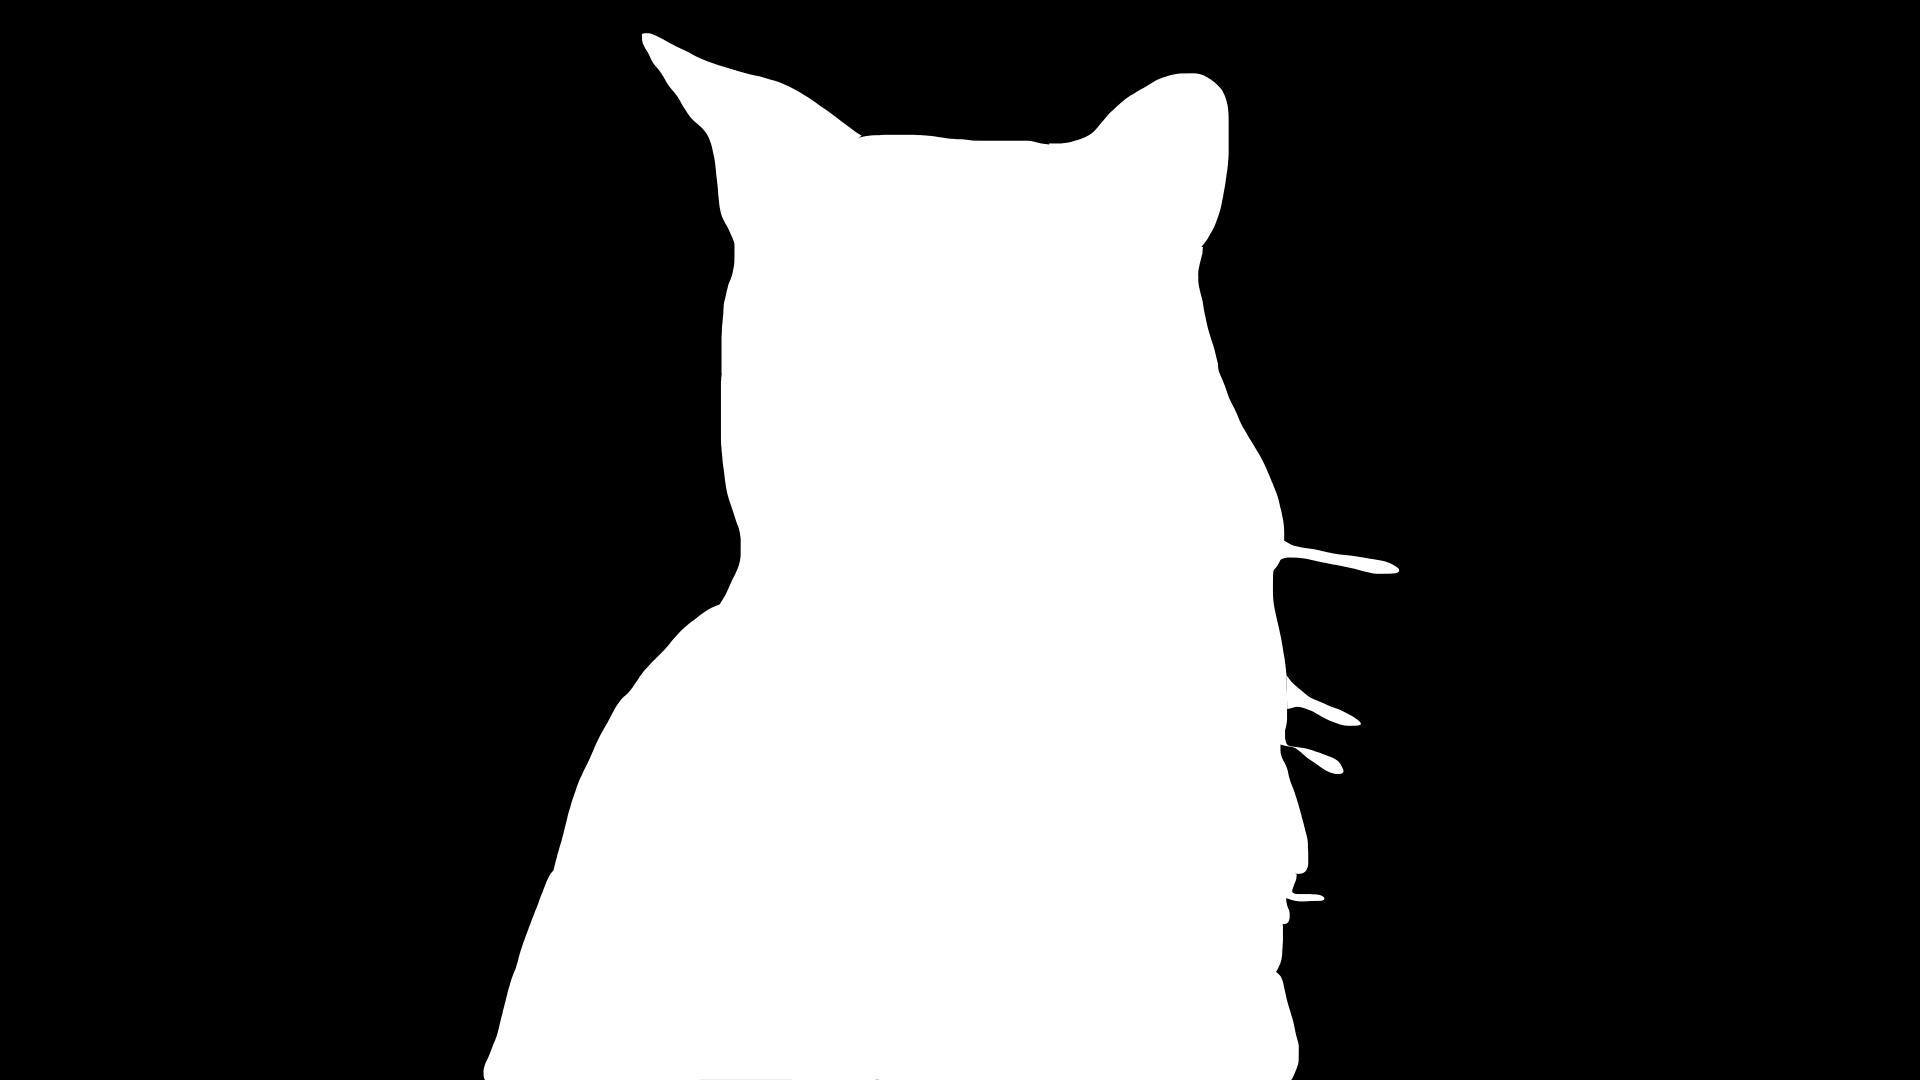
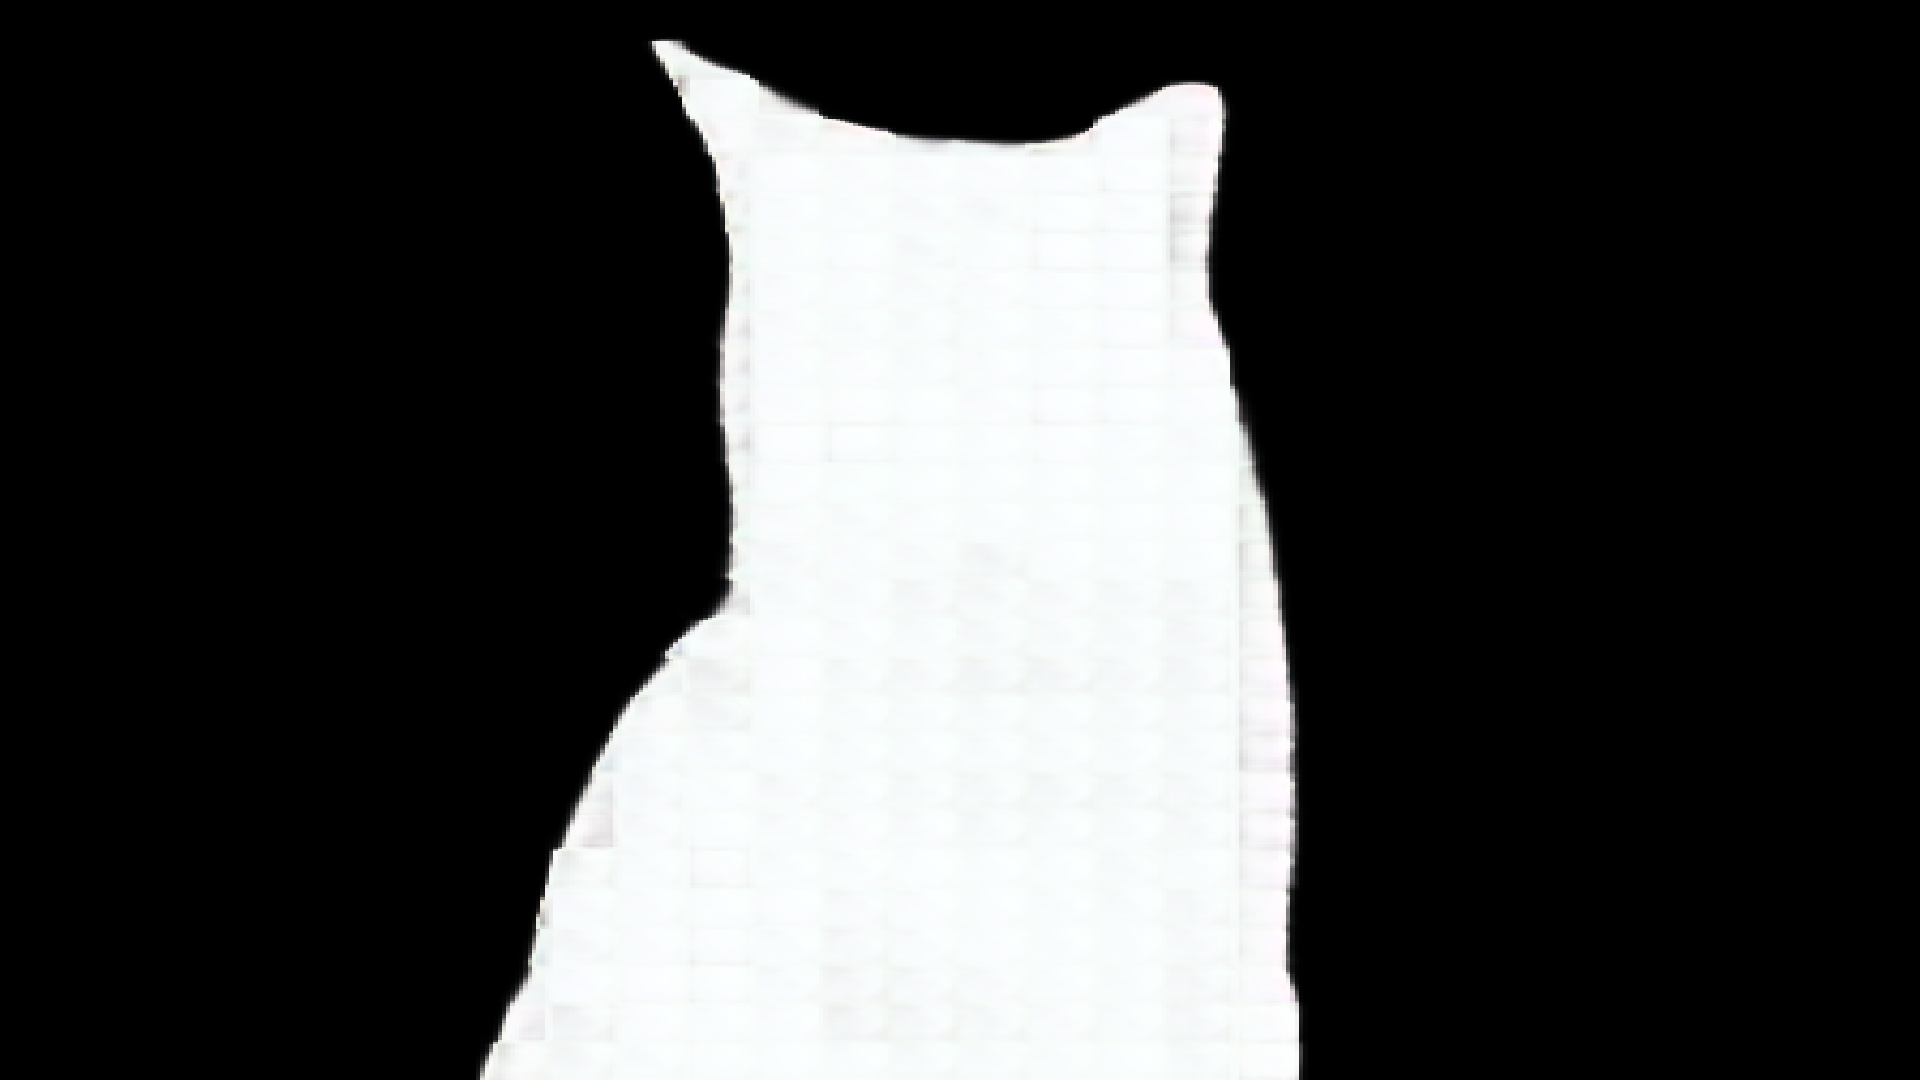
Layers and HSB colour experiments

diff --git a/sketch.js b/sketch.js
@@ -1,3 +1,129 @@
+let sourceImg=null;
+let maskImg=null;
+let renderCounter=0;
+let curLayer = 0;
+
+// change these three lines as appropiate
+let sourceFile = "input_5.jpg";
+let maskFile   = "mask_5.png";
+let outputFile = "output_2.png";
+
+function preload() {
+  sourceImg = loadImage(sourceFile);
+  maskImg = loadImage(maskFile);
+}
+
+function setup () {
+  let main_canvas = createCanvas(1920, 1080);
+  main_canvas.parent('canvasContainer');
+
+  imageMode(CENTER);
+  noStroke();
+  background(0, 0, 128);
+  sourceImg.loadPixels();
+  maskImg.loadPixels();
+  colorMode(HSB);
+}
+
+function draw () {
+  if (curLayer == 0) { //background
+    let num_lines_to_draw = 40;
+    // get one scanline
+    for(let j=renderCounter; j<renderCounter+num_lines_to_draw && j<1080; j++) {
+      for(let i=0; i<1920; i++) {
+        colorMode(RGB);
+        let pix = sourceImg.get(i, j);
+        // create a color from the values (always RGB)
+        let col = color(pix);
+        let mask = maskImg.get(i, j);
+
+        colorMode(HSB, 360, 100, 100);
+        // draw a "dimmed" version in gray
+        let h = hue(col);
+        let s = saturation(col);
+        let b = brightness(col);
+
+        let new_brt = map(b, 0, 100, 30, 50);
+        //let new_sat = map(s,0,100,20,80);
+        let new_col = color(h, 0, new_brt);
+        set(i, j, new_col);
+      }
+    }
+    renderCounter = renderCounter + num_lines_to_draw;
+    updatePixels();
+  }
+  else if (curLayer == 1) { //Halo around cat
+    for(let i=0; i<500; i++) {
+      let x1 = random(0, width);
+      let y1 = random(0, height);
+      let mask = maskImg.get(x1, y1);
+      if(mask[1] > 128) {
+        let x2 = x1 + random(-20, 20);
+        let y2 = y1 + random(-20, 20);
+        //colorMode(RGB);
+        //fill(255,255,0);
+        
+
+        colorMode(HSB,255);
+        const c = color('hsb(62, 150%, 100%)');
+        fill(c);
+        ellipse(x1, y1, 80);
+        
+        
+    
+      }
+    }
+    renderCounter = renderCounter + 1;
+  }
+  else { //elements on top of cat and on top of background
+    
+    for(let i=0; i<100; i++) {
+      let x1 = random(0, width);
+      let y1 = random(0, height);
+      let x2 = x1 + random(-10, 10);
+      let y2 = y1 + random(-10, 10);
+      colorMode(RGB);
+      let pix = sourceImg.get(x1, y1);
+      let mask = maskImg.get(x1, y1);
+      let col = color(pix);
+     
+      stroke(col);
+      fill(col);
+      if(mask[1] < 128) {
+        
+      }
+      else {
+        ellipse(x1, y1, 20);
+      }
+    }
+    renderCounter = renderCounter + 1;
+    // set(i, j, new_col);
+  }
+  // print(renderCounter);
+  if(curLayer == 0 && renderCounter > 1080) {
+    curLayer = 1;
+    renderCounter = 0;
+    print("Switching to curLayer 1");
+  }
+  if(curLayer == 1 && renderCounter > 500) {
+    curLayer = 2;
+    renderCounter = 0;
+    print("Switching to curLayer 2");
+  }
+  else if(curLayer == 2 && renderCounter > 1500) {
+    console.log("Done!")
+    noLoop();
+    // uncomment this to save the result
+    // saveArtworkImage(outputFile);
+  }
+}
+
+function keyTyped() {
+  if (key == '!') {
+    saveBlocksImages();
+  }
+}
+
 // let sourceImg=null;
 // let maskImg=null;
 // let renderCounter=0;
@@ -5,7 +131,7 @@
 // // change these three lines as appropiate
 // let sourceFile = "input_5.jpg";
 // let maskFile   = "mask_5.png";
-// let outputFile = "output_5.png";
+// let outputFile = "output_1.png";
 
 // function preload() {
 //   sourceImg = loadImage(sourceFile);
@@ -23,17 +149,19 @@
 //   maskImg.loadPixels();
 // }
 
-// // return;
 // function draw () {
-//   // return;
 //   let j = renderCounter;
 //   // get one scanline
 //   for(let i=0; i<1920; i++) {
 //     let pix = sourceImg.get(i, j);
 //     let mask = maskImg.get(i, j);
+
+   
+
 //     if(mask[0] > 128) {
 //       // draw the full pixels
 //       set(i, j, pix);
+    
 //     }
 //     else {
 //       // draw a "dimmed" version in gray
@@ -41,8 +169,8 @@
 //       set(i, j, gray_color);
 //     }
 //   }
-// }
-// // function draw () {
+
+//   // function draw () {
 // //   for(let i=0;i<10000;i++) {
 // //     let x = floor(random(sourceImg.width));
 // //     let y = floor(random(sourceImg.height));
@@ -71,77 +199,20 @@
 //     //   let pointSize = 20;
 //     //   rect(x, y, pointSize, pointSize);    
 //     // }
- 
+
+//   updatePixels();
 //   renderCounter = renderCounter + 1;
+//   print(renderCounter);
 //   if(renderCounter > 1080) {
 //     console.log("Done!")
 //     noLoop();
 //     // uncomment this to save the result
 //     // saveArtworkImage(outputFile);
 //   }
-  
+// }
 
 // function keyTyped() {
 //   if (key == '!') {
 //     saveBlocksImages();
 //   }
 // }
-
-
-let sourceImg=null;
-let maskImg=null;
-let renderCounter=0;
-
-// change these three lines as appropiate
-let sourceFile = "input_8.jpg";
-let maskFile   = "mask_8.png";
-let outputFile = "output_1.png";
-
-function preload() {
-  sourceImg = loadImage(sourceFile);
-  maskImg = loadImage(maskFile);
-}
-
-function setup () {
-  let main_canvas = createCanvas(1920, 1080);
-  main_canvas.parent('canvasContainer');
-
-  imageMode(CENTER);
-  noStroke();
-  background(0, 0, 128);
-  sourceImg.loadPixels();
-  maskImg.loadPixels();
-}
-
-function draw () {
-  let j = renderCounter;
-  // get one scanline
-  for(let i=0; i<1920; i++) {
-    let pix = sourceImg.get(i, j);
-    let mask = maskImg.get(i, j);
-    if(mask[0] > 128) {
-      // draw the full pixels
-      set(i, j, pix);
-    }
-    else {
-      // draw a "dimmed" version in gray
-      let gray_color = 64 + pix[1] / 8;
-      set(i, j, gray_color);
-    }
-  }
-  updatePixels();
-  renderCounter = renderCounter + 1;
-  print(renderCounter);
-  if(renderCounter > 1080) {
-    console.log("Done!")
-    noLoop();
-    // uncomment this to save the result
-    // saveArtworkImage(outputFile);
-  }
-}
-
-function keyTyped() {
-  if (key == '!') {
-    saveBlocksImages();
-  }
-}

diff --git a/README.md b/README.md
@@ -1,5 +1,8 @@
 [![Review Assignment Due Date](https://classroom.github.com/assets/deadline-readme-button-24ddc0f5d75046c5622901739e7c5dd533143b0c8e959d652212380cedb1ea36.svg)](https://classroom.github.com/a/fhdOjw6q)
 [![Open in Visual Studio Code](https://classroom.github.com/assets/open-in-vscode-718a45dd9cf7e7f842a935f5ebbe5719a5e09af4491e668f4dbf3b35d5cca122.svg)](https://classroom.github.com/online_ide?assignment_repo_id=11930259&assignment_repo_type=AssignmentRepo)
+# A Cat's Life by Jade Little
 ## Creative Coding 2: Custom Pixel
 
 The images above are photos of Wellington CBD algorithmically processed with a lightly modified version of the [p5.js Pointillism example](https://p5js.org/examples/image-pointillism.html). The masks for each photo highlight various objects. Replace this text with your own which explains the source of your photos, masking, and applied algorithm.
+
+
